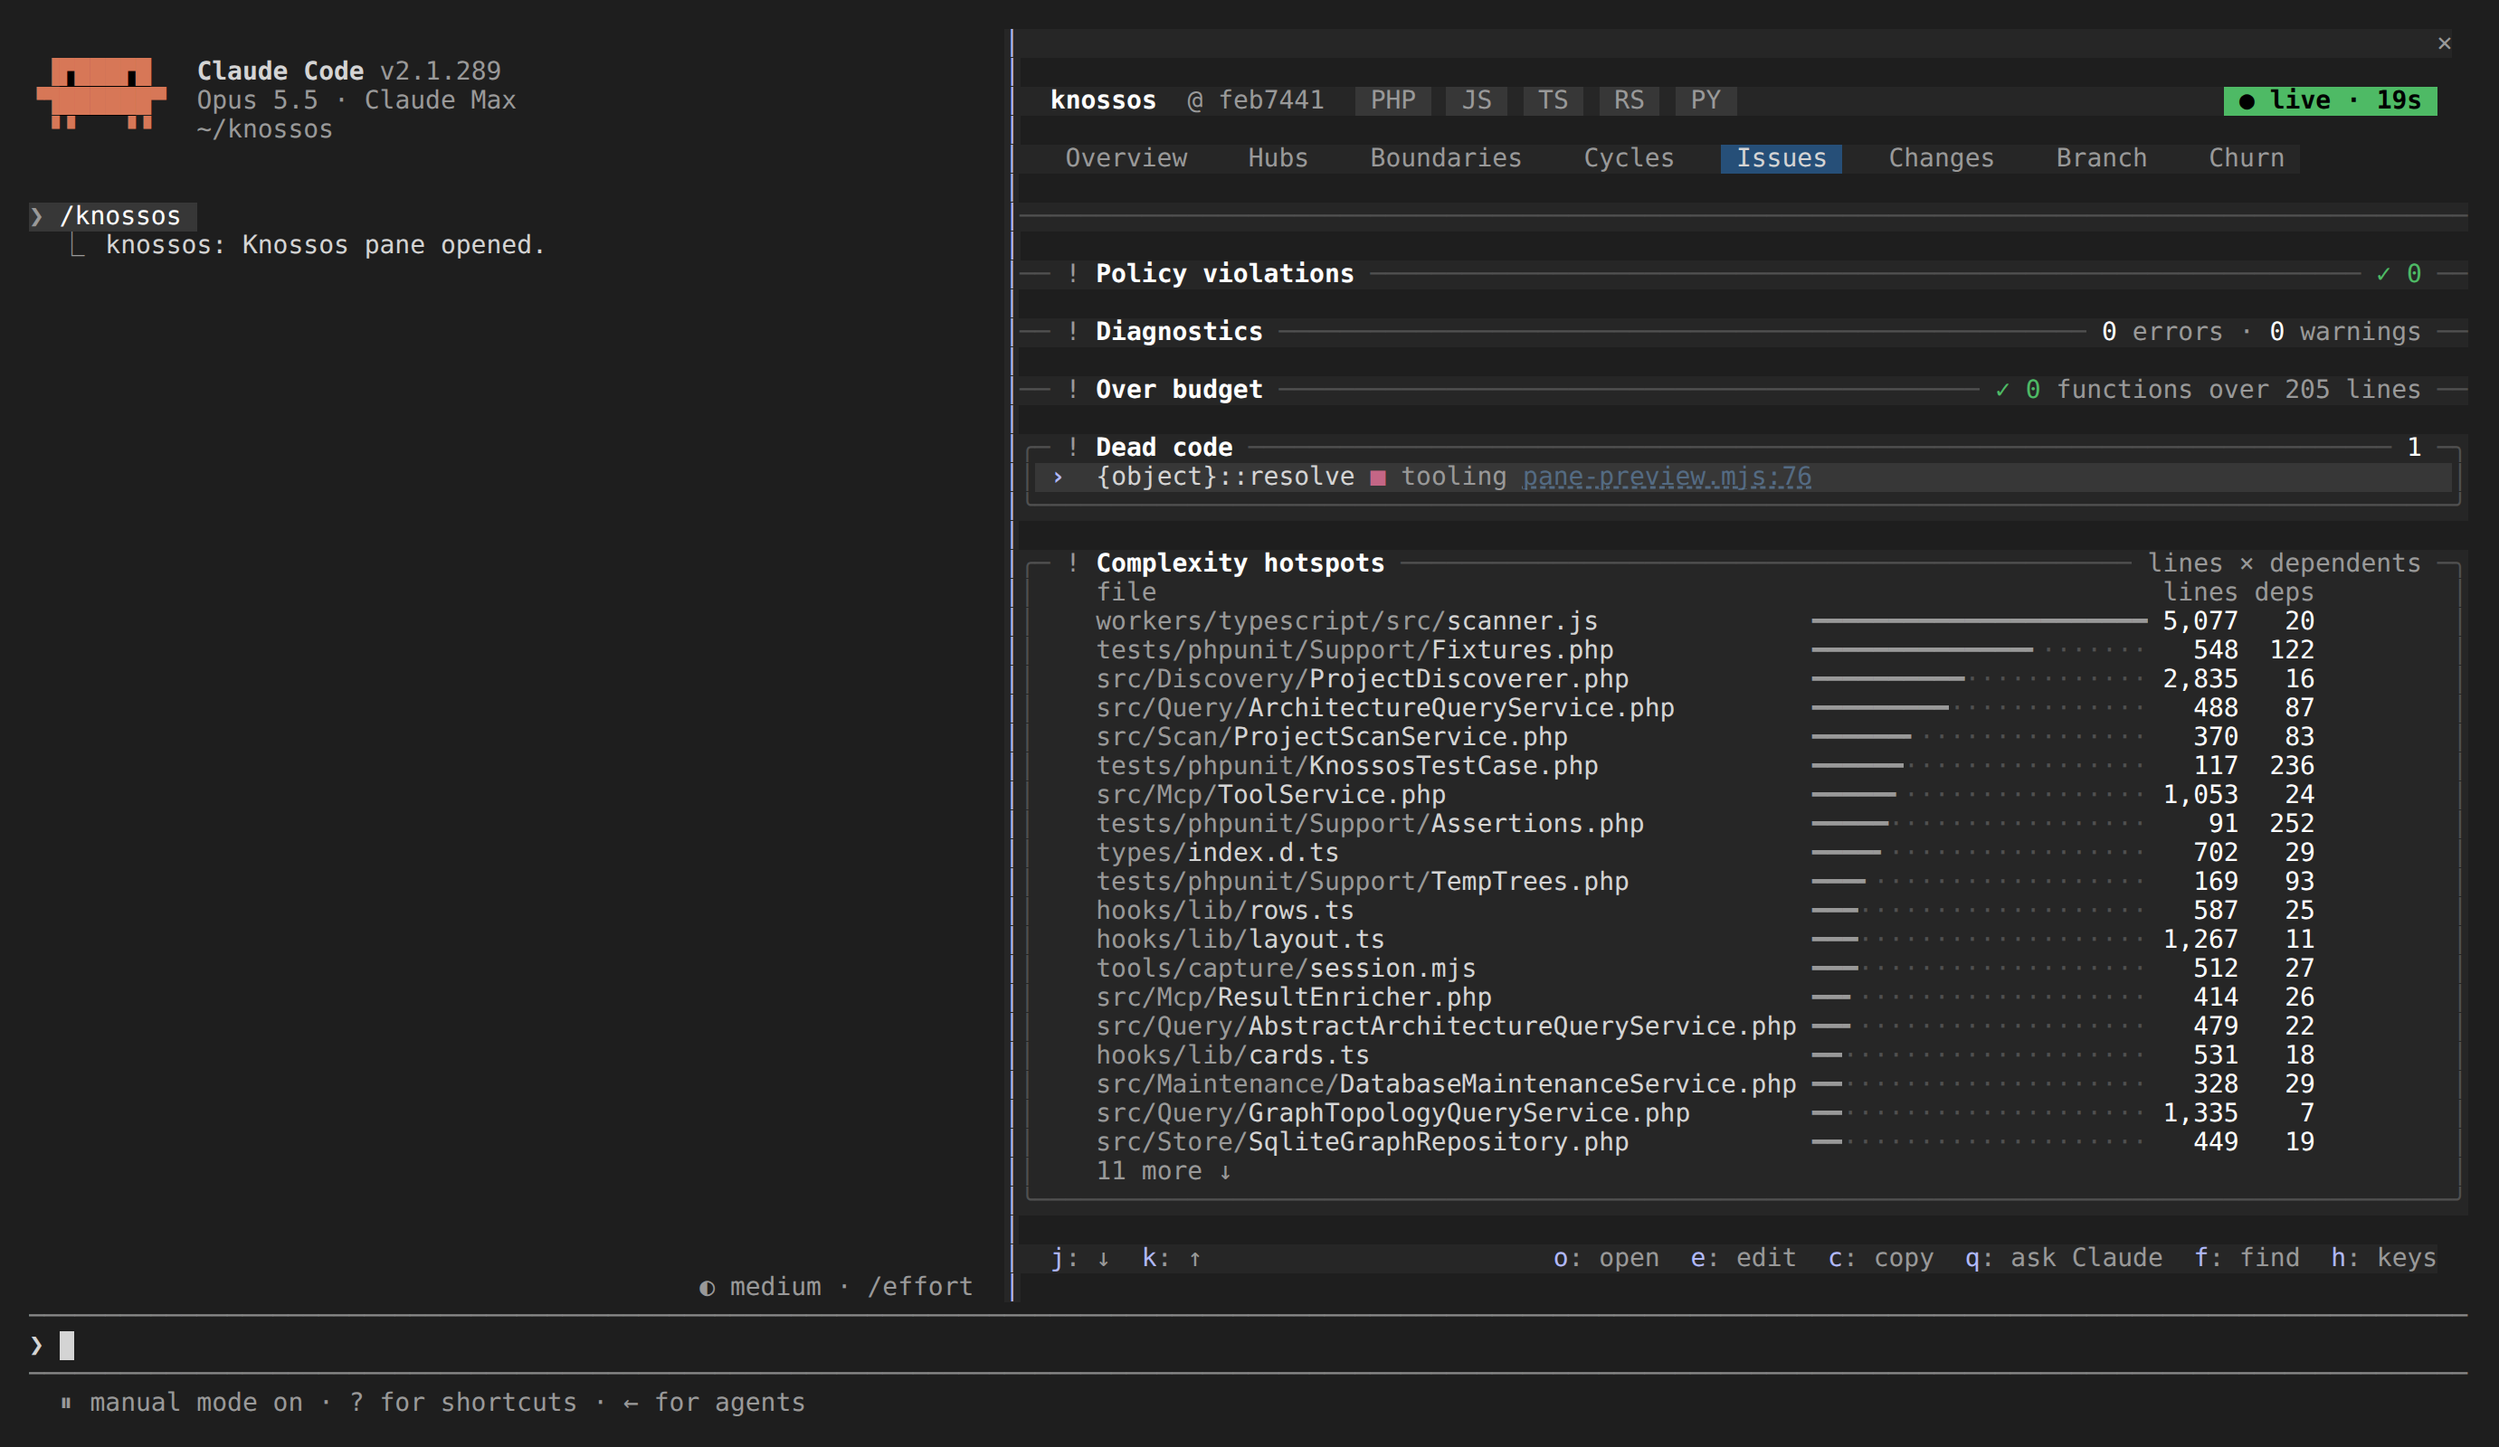
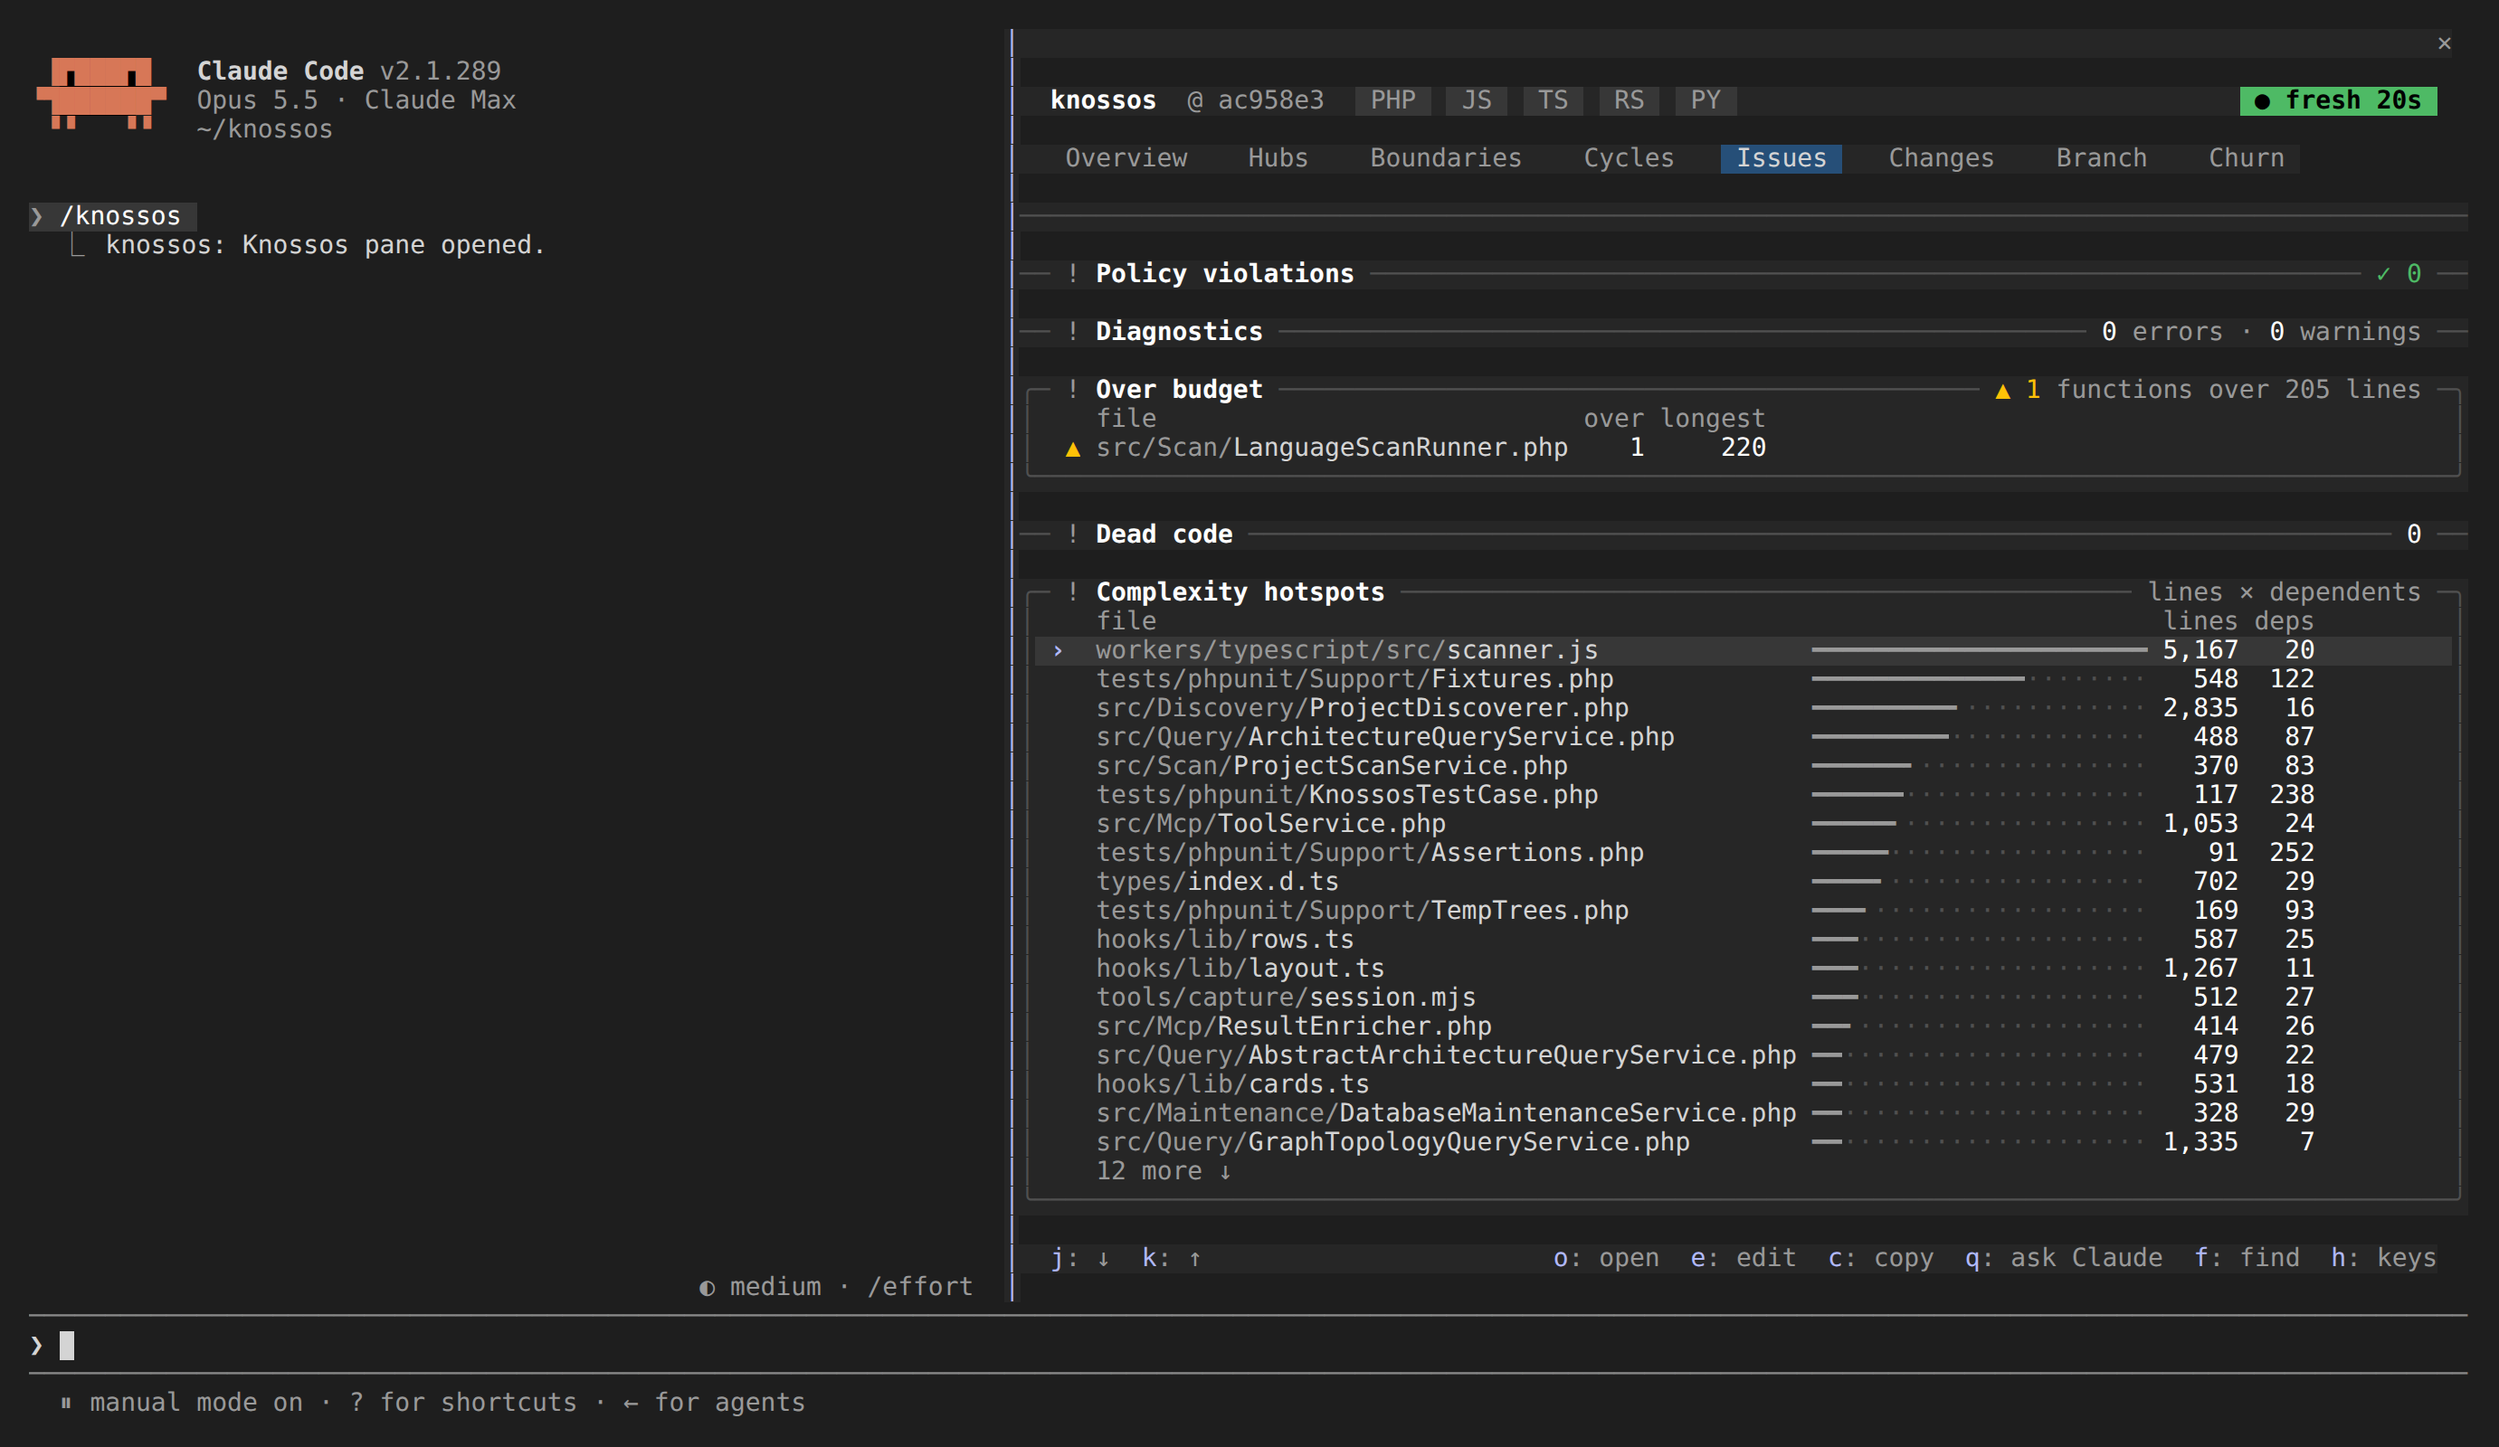
docs(claude-code): re-shoot the Issues still, which now shows no dead code and one function over budget

Changed region(s): [[0.4359, 0.2812, 0.9652, 0.8125], [0.8718, 0.0625, 0.9652, 0.0938], [0.4982, 0.0625, 0.5293, 0.0938]]

diff --git a/docs/claude-code/pane.md b/docs/claude-code/pane.md
@@ -370,9 +370,9 @@ cycle.
 
 ## Issues
 
-![The Issues tab on this repository: no policy violations, no diagnostics, no function over the 205-line budget, one dead-code candidate, and the complexity hotspots ranked by lines times dependents](../images/claude-code/issues.png)
+![The Issues tab on this repository: no policy violations, no diagnostics, one function over the 205-line budget, no dead-code candidates, and the complexity hotspots ranked by lines times dependents](../images/claude-code/issues.png)
 
-The Issues tab on this repository, where the only finding left is one dead-code candidate.
+The Issues tab on this repository, where the only finding left is one function over the line budget.
 
 Issues gathers what needs fixing, one card each, in the order a pane this wide stacks them:
 
